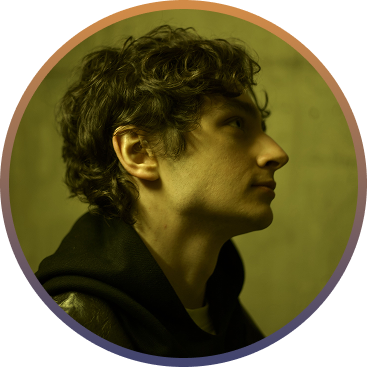
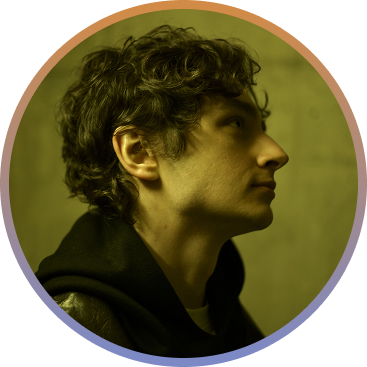
ContactPage + Animations

Changed region(s): [[0.0, 0.2698, 1.0, 1.0]]

diff --git a/src/Components/Main/Main.jsx b/src/Components/Main/Main.jsx
@@ -1,19 +1,53 @@
+// Main.jsx
 import "./Main.scss";
 import Me from "../../assets/img/me.png";
+import { useEffect, useRef, useState } from "react";
+import { CSSTransition } from "react-transition-group";
 
 const Main = () => {
+  const [show, setShow] = useState(false);
+  const textRef = useRef(null);
+  const imgRef = useRef(null);
+
+  useEffect(() => {
+    const timer = setTimeout(() => setShow(true), 300);
+    return () => clearTimeout(timer);
+  }, []);
+
   return (
     <main className="main">
       <div className="container main__container">
-        <h1 className="main__title">
-          Hi 👋,<br />
-          My name is <br/> <span className="main__title main__title-name">Alexei Sidoryk</span> <br />
-          I build fast, accessible <br/>& beautiful web apps
-        </h1>
-        <img src={Me} alt="" className="main__me" />
+        {/* Заголовок */}
+        <CSSTransition
+          in={show}
+          timeout={800}
+          classNames="fade-slide"
+          unmountOnExit
+          nodeRef={textRef}
+          appear
+        >
+          <h1 ref={textRef} className="main__title gradient-text">
+            Hi 👋,<br />
+            My name is <br /> 
+            <span className="main__title-name">Alexei Sidoryk</span> <br />
+            I build fast, accessible <br /> & beautiful web apps
+          </h1>
+        </CSSTransition>
+
+        {/* Фото */}
+        <CSSTransition
+          in={show}
+          timeout={1000}
+          classNames="fade-scale"
+          unmountOnExit
+          nodeRef={imgRef}
+          appear
+        >
+          <img ref={imgRef} src={Me} alt="Alexei Sidoryk" className="main__me" />
+        </CSSTransition>
       </div>
     </main>
   );
-}
+};
 
 export default Main;

diff --git a/src/Components/About/About.jsx b/src/Components/About/About.jsx
@@ -1,5 +1,7 @@
 import './About.scss';
 import Sun from '../../assets/img/bg-icons/sun.svg';
+import { useState, useEffect, useRef } from 'react';
+import { CSSTransition } from 'react-transition-group';
 
 const ListItem = ({ title, type, description, date, place }) => {
   return (
@@ -27,9 +29,26 @@ const ListItem = ({ title, type, description, date, place }) => {
 };
 
 const About = () => {
+  const [show, setShow] = useState(false);
+  const sunRef = useRef(null);
+
+  useEffect(() => {
+    const timer = setTimeout(() => setShow(true), 1000);
+    return () => clearTimeout(timer);
+  }, []);
+
   return (
     <section className="about section">
-      <img src={Sun} alt="Sun" className='about__sun'/>
+      <CSSTransition
+        in={show}
+        timeout={800}
+        classNames="slide-in"
+        unmountOnExit
+        nodeRef={sunRef}
+        appear
+      >
+        <img ref={sunRef} src={Sun} alt="Sun" className='about__sun'/>
+      </CSSTransition>
       <div className="container about__container">
         <h2 className="about__heading">About Me</h2>
         <p className="about__description">Originally from Belarus, I moved to the Czech Republic in 2022 to study Software Engineering in Zlín. I’ve just finished my Bachelor’s at Tomas Bata University (2025) and I’m continuing with a Master’s (Ing.). I enjoy crafting clean, responsive interfaces in React and turning ideas into working features.</p>

diff --git a/src/Components/Projects/Projects.jsx b/src/Components/Projects/Projects.jsx
@@ -3,6 +3,8 @@ import AtsImg from "../../assets/img/projects/ats.png";
 import PortfolioImg from "../../assets/img/projects/portfolio.png";
 import ProjectImg from "../../assets/img/projects/project.png";
 import Cloud from "../../assets/img/bg-icons/cloud.svg";
+import { useEffect, useState, useRef } from "react";
+import { CSSTransition } from "react-transition-group";
 
 
 const projects = [
@@ -71,9 +73,25 @@ const ProjectItem = ({image, title, description, stack, liveDemo, sourceCode }) 
 };
 
 const Projects = () => {
+  const [show, setShow] = useState(false);
+  const cloudRef = useRef(null);
+
+  useEffect(() => {
+    const timer = setTimeout(() => setShow(true), 1000);
+    return () => clearTimeout(timer);
+  }, []);
   return (
     <div className="projects section">
-      <img src={Cloud} alt="Cloud" className="projects__cloud"/>
+      <CSSTransition
+        in={show}
+        timeout={800}
+        classNames="slide-in"
+        unmountOnExit
+        nodeRef={cloudRef}
+        appear
+      >
+        <img ref={cloudRef} src={Cloud} alt="Cloud" className="projects__cloud"/>
+      </CSSTransition>
       <div className="container projects__container">
         <div className="projects__text">
           <h2 className="heading projects__title">Projects</h2>

diff --git a/src/Components/Contact/Contact.scss b/src/Components/Contact/Contact.scss
@@ -1,0 +1,56 @@
+.contact {
+
+  padding: 0;
+  &__container {
+    position: relative;
+    height: calc(100vh - var(--header-height) - var(--footer-height));
+    display: flex;
+    justify-content: center;
+    align-items: center;
+    flex-direction: column;
+    gap: 40px;
+  }
+  &__title {
+    color: var(--heading-dark);
+    text-align: center;
+    font-family: "DM Sans";
+    font-size: 60px;
+    font-style: normal;
+    font-weight: 700;
+    line-height: 70px; /* 120.69% */
+    letter-spacing: -1px;
+  }
+  &__items {
+    display: flex;
+    justify-content: center;
+    align-items: center;
+    flex-direction: column;
+  }
+  &__link {
+    text-align: center;
+    font-family: "DM Sans";
+    font-size: 60px;
+    font-style: normal;
+    font-weight: 700;
+    line-height: 70px;
+    letter-spacing: -1px;
+    background: linear-gradient(90deg, #D18B47 20%, #7C89C5 120%);
+    background-clip: text;
+    -webkit-background-clip: text;
+    -webkit-text-fill-color: transparent;
+  }
+  &__or {
+    font-size: 20px;
+    font-weight: 400;
+  }
+  &__telephone {
+    position: absolute;
+    height: 200px;
+    width: 200px;
+    top: 100px;
+    right: 0;
+    z-index: -1;
+    user-select: none;
+    -webkit-user-drag: none;
+  }
+}

diff --git a/src/Components/Stack/Stack.jsx b/src/Components/Stack/Stack.jsx
@@ -1,5 +1,7 @@
 import "./Stack.scss";
 import Star from "../../assets/img/bg-icons/star.svg";
+import { CSSTransition } from "react-transition-group";
+import { useEffect, useState, useRef } from "react";
 
 const icons = import.meta.glob('../../assets/icons/*.svg', {
   eager: true,
@@ -24,9 +26,26 @@ const SKILLS = [
 ].map(s => ({ ...s, src: srcOf(`${s.key}.svg`) }));
 
 const Stack = () => {
+  const [show, setShow] = useState(false);
+  const starRef = useRef(null);
+
+  useEffect(() => {
+    const timer = setTimeout(() => setShow(true), 1000);
+    return () => clearTimeout(timer);
+  }, []);
+
   return (
     <section className="stack section">
-      <img src={Star} alt="Star" className="stack__star" />
+      <CSSTransition
+        in={show}
+        timeout={800}
+        classNames="slide-in"
+        unmountOnExit
+        nodeRef={starRef}
+        appear
+      >
+        <img ref={starRef} src={Star} alt="Star" className="stack__star" />
+      </CSSTransition>
       <div className="container stack__container">
         <div className="stack__text">
           <h2 className="stack__heading heading">My Tech Stack</h2>

diff --git a/src/Components/Main/Main.scss b/src/Components/Main/Main.scss
@@ -16,7 +16,7 @@
     letter-spacing: -1px;
     color: var(--heading-dark);
     &-name {
-      background: linear-gradient(90deg, #D18B47 20%, #42446E 120%);
+      background: linear-gradient(90deg, #D18B47 20%, #7C89C5 120%);
       background-clip: text;
       -webkit-background-clip: text;
       -webkit-text-fill-color: transparent;
@@ -28,5 +28,29 @@
     width: 100%;
     height: 100%;
     object-fit: contain;
+    justify-self: end;
+  }
+  .fade-slide-enter { opacity: 0; transform: translateY(15px); }
+  .fade-slide-enter-active {
+    opacity: 1; transform: translateY(0);
+    transition: opacity .8s ease, transform .8s ease;
+  }
+  .fade-slide-appear { opacity: 0; transform: translateY(15px); }
+  .fade-slide-appear-active {
+    opacity: 1; transform: translateY(0);
+    transition: opacity .8s ease, transform .8s ease;
+  }
+
+  .fade-scale-appear,
+  .fade-scale-enter {
+    opacity: 0;
+    transform: scale(0.95);
+  }
+  .fade-scale-appear-active,
+  .fade-scale-enter-active {
+    opacity: 1;
+    transform: scale(1);
+    transition: opacity 1s ease, transform 1s ease;
+    transition-delay: 0.2s;
   }
 }

diff --git a/src/AnimatedRouter.jsx b/src/AnimatedRouter.jsx
@@ -7,6 +7,7 @@ const Home  = lazy(() => import('./Components/Main/Main'));
 const About = lazy(() => import('./Components/About/About'));
 const TechStack = lazy(() => import('./Components/Stack/Stack'));
 const Projects = lazy(() => import('./Components/Projects/Projects'));
+const Contact = lazy(() => import('./Components/Contact/Contact'));
 
 const withSuspense = (Comp) => <Suspense fallback={null}><Comp/></Suspense>;
 
@@ -36,6 +37,7 @@ export default function AnimatedRouter() {
               <Route path="/about" element={withSuspense(About)} />
               <Route path="/tech-stack" element={withSuspense(TechStack)} />
               <Route path="/projects" element={withSuspense(Projects)} />
+              <Route path="/contact" element={withSuspense(Contact)} />
           </Routes>
         </div>
       </CSSTransition>

diff --git a/src/Components/Contact/Contact.jsx b/src/Components/Contact/Contact.jsx
@@ -1,0 +1,26 @@
+import "./Contact.scss";
+import Footer from "../Footer/Footer";
+import Telephone from '../../assets/img/bg-icons/telephone.svg';
+
+const Contact = () => {
+  return (
+    <>
+    <section className="contact section">
+      <div className="container contact__container">
+        <img src={Telephone} alt="Telephone" className="contact__telephone" />
+        <h2 className="contact__title">
+          Get in Touch
+        </h2>
+        <div className="contact__items">
+          <a href="mailto:alexeisidorik@gmail.com" className="contact__link">alexeisidorik@gmail.com</a>
+          <span className="contact__or text">or</span>
+          <a href="https://t.me/aliakseisi" className="contact__link">telegram</a>
+        </div>
+      </div>
+    </section>
+    <Footer />
+  </>
+  )
+};
+
+export default Contact;

diff --git a/src/Components/Footer/Footer.jsx b/src/Components/Footer/Footer.jsx
@@ -1,0 +1,15 @@
+import './Footer.scss';
+import Logo from '../../assets/img/logo.svg';
+
+const Footer = () => {
+  return (
+    <footer className="footer">
+      <div className="container footer__container">
+        <img src={Logo} alt="Logo" className="footer__logo" />
+        <p className="footer__text">© 2025 Alexei Sidoryk. All rights reserved.</p>
+      </div>
+    </footer>
+  );
+};
+
+export default Footer;

diff --git a/src/Components/Footer/Footer.scss b/src/Components/Footer/Footer.scss
@@ -1,0 +1,17 @@
+.footer {
+  padding: 20px 0;
+  &__container {
+    display: flex;
+    justify-content: space-between;
+    align-items: center;
+  }
+  &__logo {
+    width: 150px;
+    height: 75px;
+    object-fit: contain;
+  }
+  &__text {
+    font-size: 14px;
+    color: var(--text-dark);
+  }
+}

diff --git a/src/Components/About/About.scss b/src/Components/About/About.scss
@@ -76,9 +76,8 @@
     height: 400px;
     object-fit: contain;
     position: absolute;
-    right: 0;
-    top: 50%;
-    transform: translate(40%, -50%);
+    right: -160px;
+    top: calc(50% - 200px);
     z-index: -1;
     user-select: none;
     -webkit-user-drag: none;

diff --git a/src/Components/Stack/Stack.scss b/src/Components/Stack/Stack.scss
@@ -29,11 +29,10 @@
   &__star {
     position: absolute;
     top: 0;
-    right: 0;
+    right: -50px;
     width: 300px;
     height: 300px;
     object-fit: contain;
-    transform: translate(50px, 0);
     z-index: -1;
     user-select: none;
     -webkit-user-drag: none;
